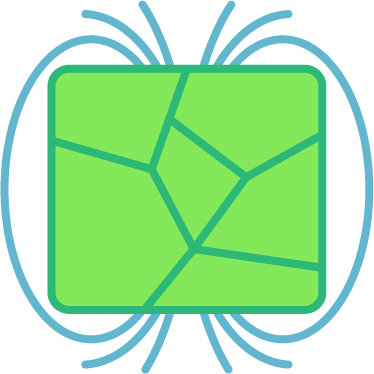
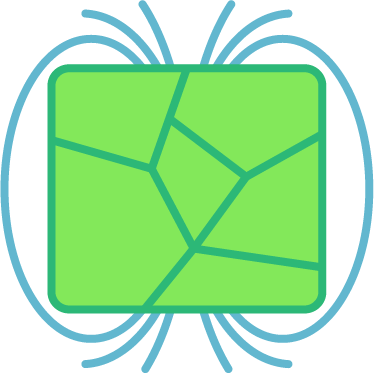
added links to images

diff --git a/source/index.rst b/source/index.rst
@@ -45,10 +45,14 @@ Find the MaMMoS tools and workflows that best match what you want to do.
     :gutter: 4
 
     .. grid-item-card:: `Explore a magnetic material <https://mammos-project.github.io/mammos/demonstrator/spindynamics-temperature-dependent-parameters.html>`_
-        :img-top: /_static/magnetic_material.png
-        :img-alt: Explore a magnetic material
         :text-align: center
         :class-card: mammos-usecase-card
+
+        .. image:: /_static/magnetic_material.png
+         :alt: Explore a magnetic material
+         :target: https://mammos-project.github.io/mammos/demonstrator/spindynamics-temperature-dependent-parameters.html
+         :class: mammos-card-image
+         :width: 100%
 
         *"I know the composition/crystal structure. What magnetic properties can I obtain?"*
 
@@ -66,10 +70,14 @@ Find the MaMMoS tools and workflows that best match what you want to do.
         `mammos-entity <https://mammos-project.github.io/mammos/examples/mammos-entity/index.html>`_
 
     .. grid-item-card:: `Hard magnet material exploration <https://mammos-project.github.io/mammos/demonstrator/hard-magnet-material-exploration.html>`_
-        :img-top: /_static/permanent_magnet.png
-        :img-alt: Hard magnet material exploration
         :text-align: center
         :class-card: mammos-usecase-card
+
+        .. image:: /_static/permanent_magnet.png
+         :alt: Hard magnet material exploration
+         :target: https://mammos-project.github.io/mammos/demonstrator/hard-magnet-material-exploration.html
+         :class: mammos-card-image
+         :width: 100%
 
         *"How do hard-magnet properties such as coercivity change with material and temperature?"*
 
@@ -91,10 +99,14 @@ Find the MaMMoS tools and workflows that best match what you want to do.
         `mammos-entity <https://mammos-project.github.io/mammos/examples/mammos-entity/index.html>`_
 
     .. grid-item-card:: `Analyse experimental data <https://mammos-project.github.io/magmeas/notebooks/getting_started.html>`_
-        :img-top: /_static/experimental_data.png
-        :img-alt: Analyse experimental data
         :text-align: center
         :class-card: mammos-usecase-card
+
+        .. image:: /_static/experimental_data.png
+         :alt: Analyse experimental data
+         :target: https://mammos-project.github.io/magmeas/notebooks/getting_started.html
+         :class: mammos-card-image
+         :width: 100%
 
         *"I have VSM/SEM/HDF5 data. How do I extract magnetic/material parameters?"*
 
@@ -107,10 +119,14 @@ Find the MaMMoS tools and workflows that best match what you want to do.
         `mammos-analysis <https://mammos-project.github.io/mammos/examples/mammos-analysis/index.html>`_
 
     .. grid-item-card:: `Sensor shape optimization workflow <https://mammos-project.github.io/mammos/demonstrator/sensor.html>`_
-        :img-top: /_static/sensor.png
-        :img-alt: Sensor shape optimization workflow
         :text-align: center
         :class-card: mammos-usecase-card
+
+        .. image:: /_static/sensor.png
+         :alt: Sensor shape optimization workflow
+         :target: https://mammos-project.github.io/mammos/demonstrator/sensor.html
+         :class: mammos-card-image
+         :width: 100%
 
         *"How can the shape of a magnetic sensor element be optimized to maximize its linear response range?"*
 
@@ -132,10 +148,14 @@ Find the MaMMoS tools and workflows that best match what you want to do.
         `mammos-entity <https://mammos-project.github.io/mammos/examples/mammos-entity/index.html>`_
 
     .. grid-item-card:: `Connect data and models <https://mammos-project.github.io/mammos/examples/mammos-entity/quickstart.html>`_
-        :img-top: /_static/interoperability.png
-        :img-alt: Connect data and models
         :text-align: center
         :class-card: mammos-usecase-card
+
+        .. image:: /_static/interoperability.png
+         :alt: Connect data and models
+         :target: https://mammos-project.github.io/mammos/examples/mammos-entity/quickstart.html
+         :class: mammos-card-image
+         :width: 100%
 
         *"How do I make my data interoperable between methods/scales?"*
 
@@ -149,10 +169,14 @@ Find the MaMMoS tools and workflows that best match what you want to do.
 
 
     .. grid-item-card:: `Run a complete MaMMoS workflow <https://mammos-project.github.io/mammos/demonstrator/index.html>`_
-        :img-top: /_static/workflow.png
-        :img-alt: Run a complete MaMMoS workflow
         :text-align: center
         :class-card: mammos-usecase-card
+
+        .. image:: /_static/workflow.png
+         :alt: Run a complete MaMMoS workflow
+         :target: https://mammos-project.github.io/mammos/demonstrator/index.html
+         :class: mammos-card-image
+         :width: 100%
 
         *"Show me an end-to-end example."*
 
